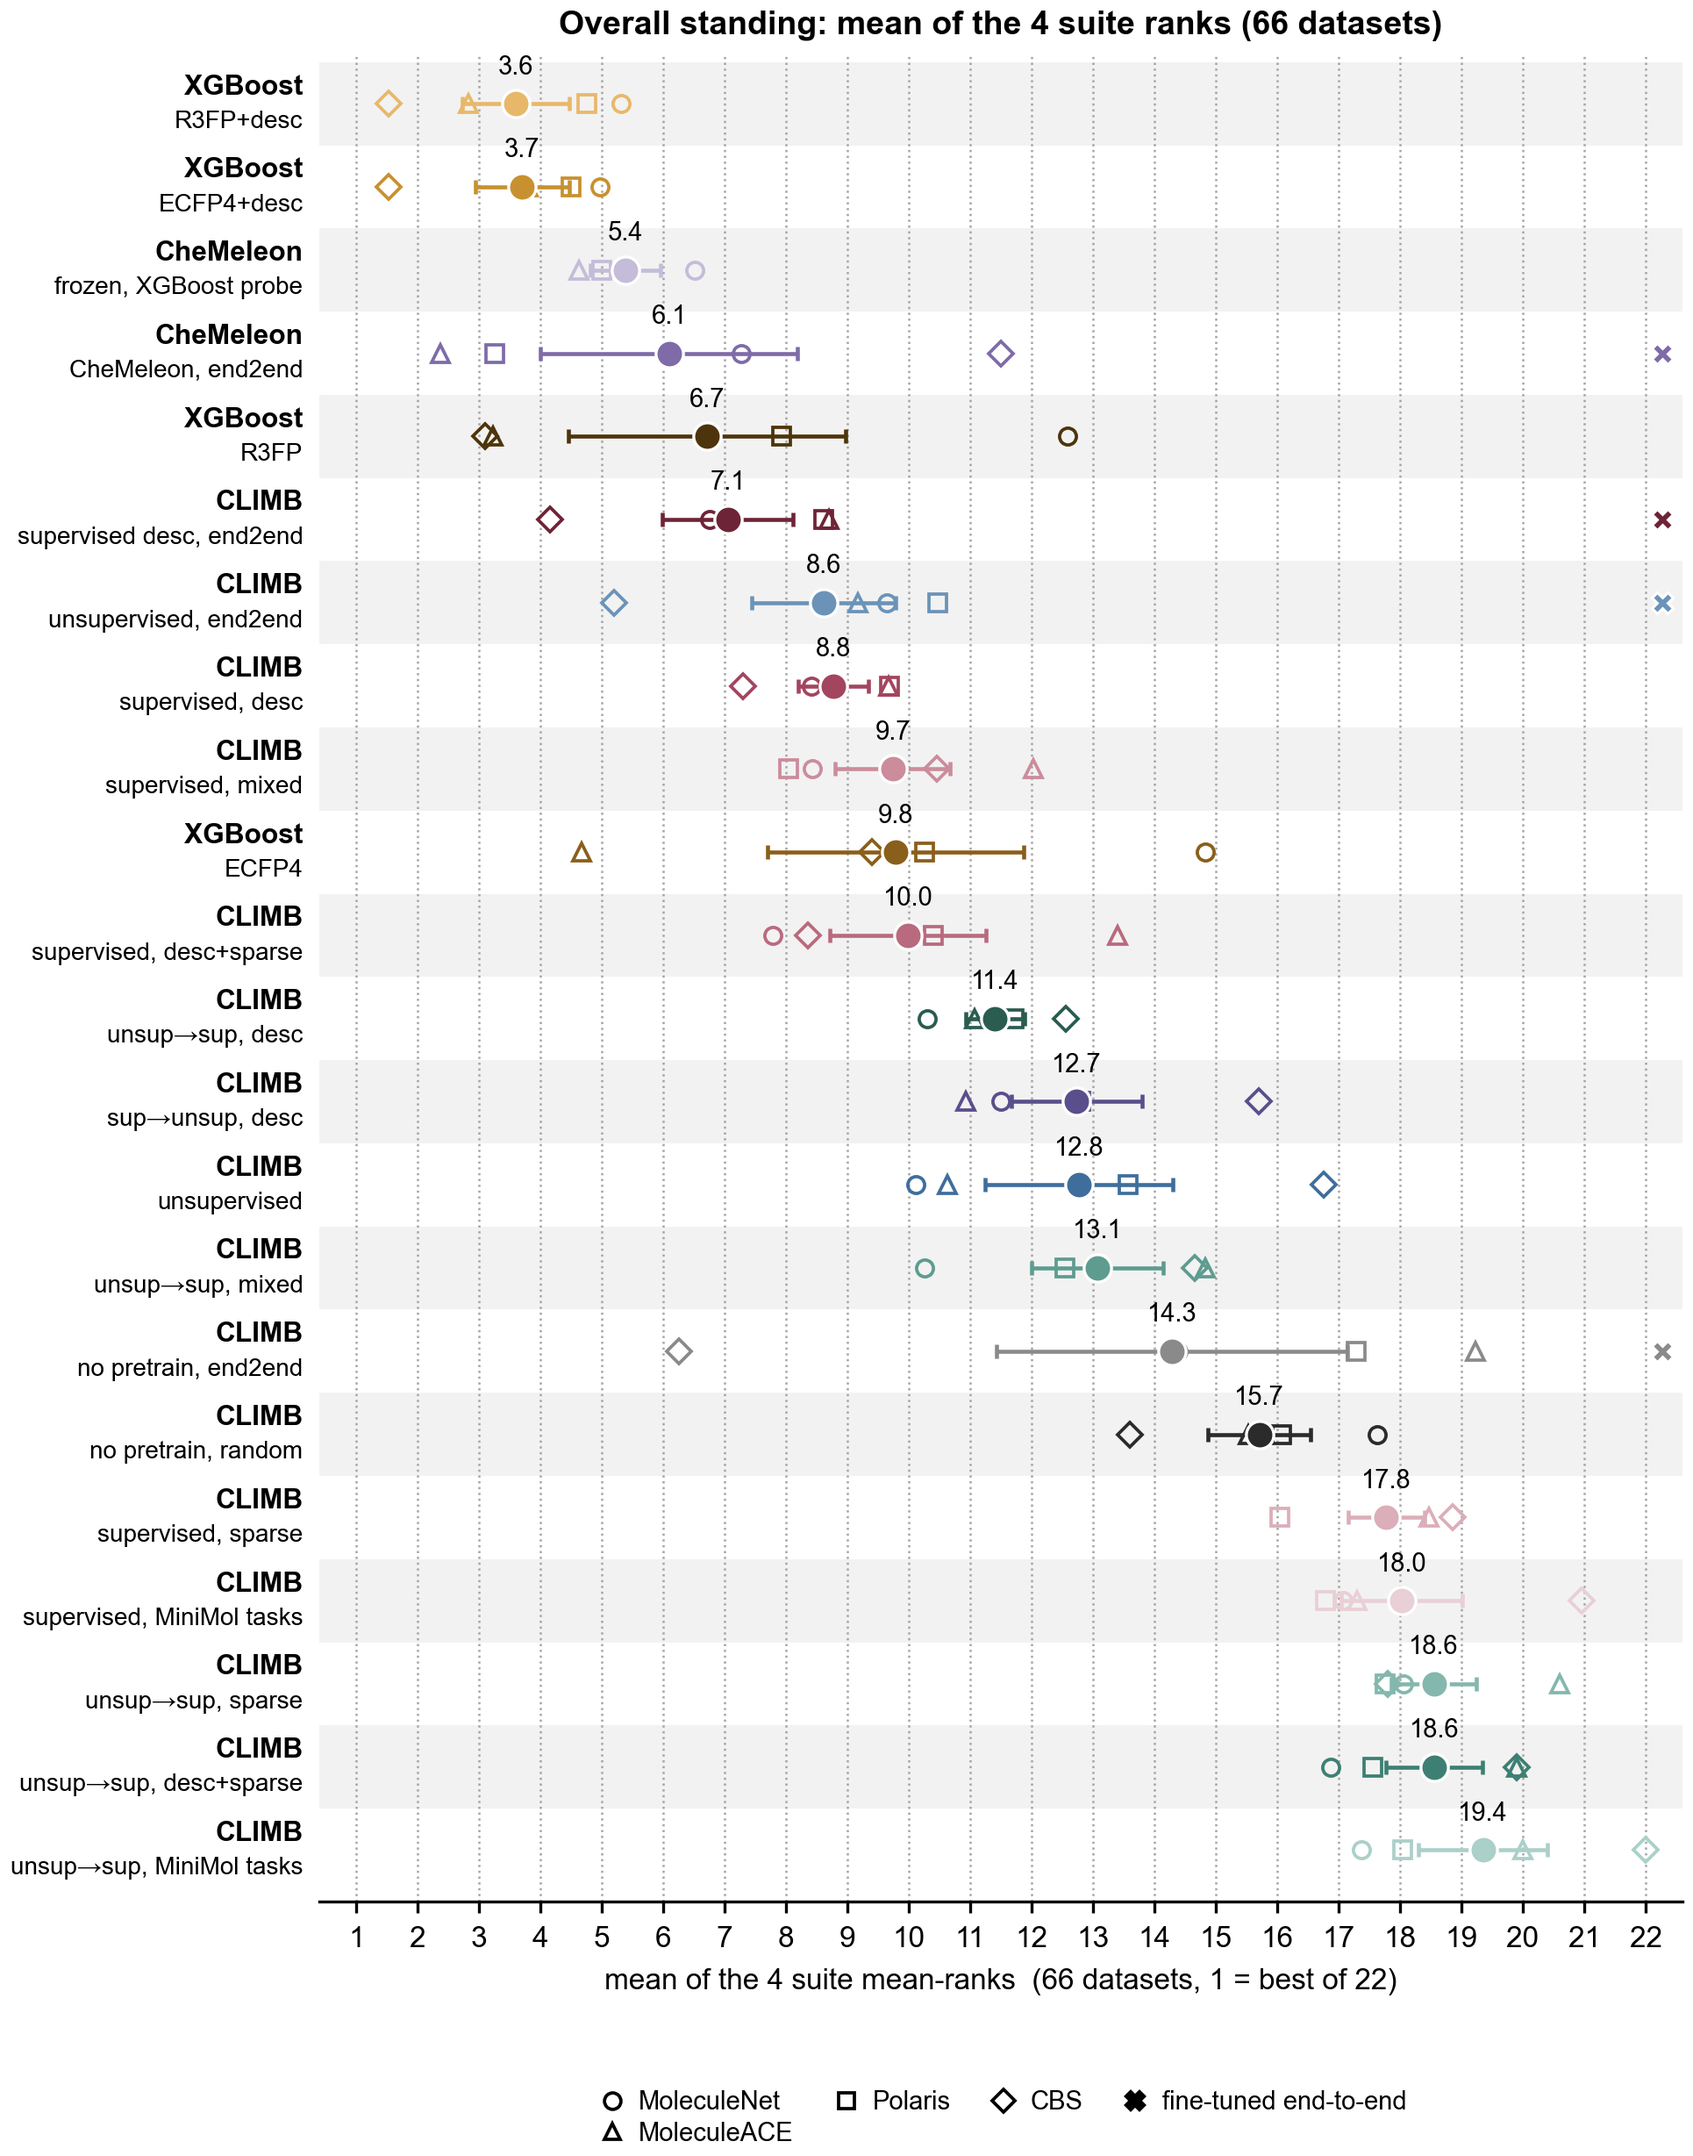
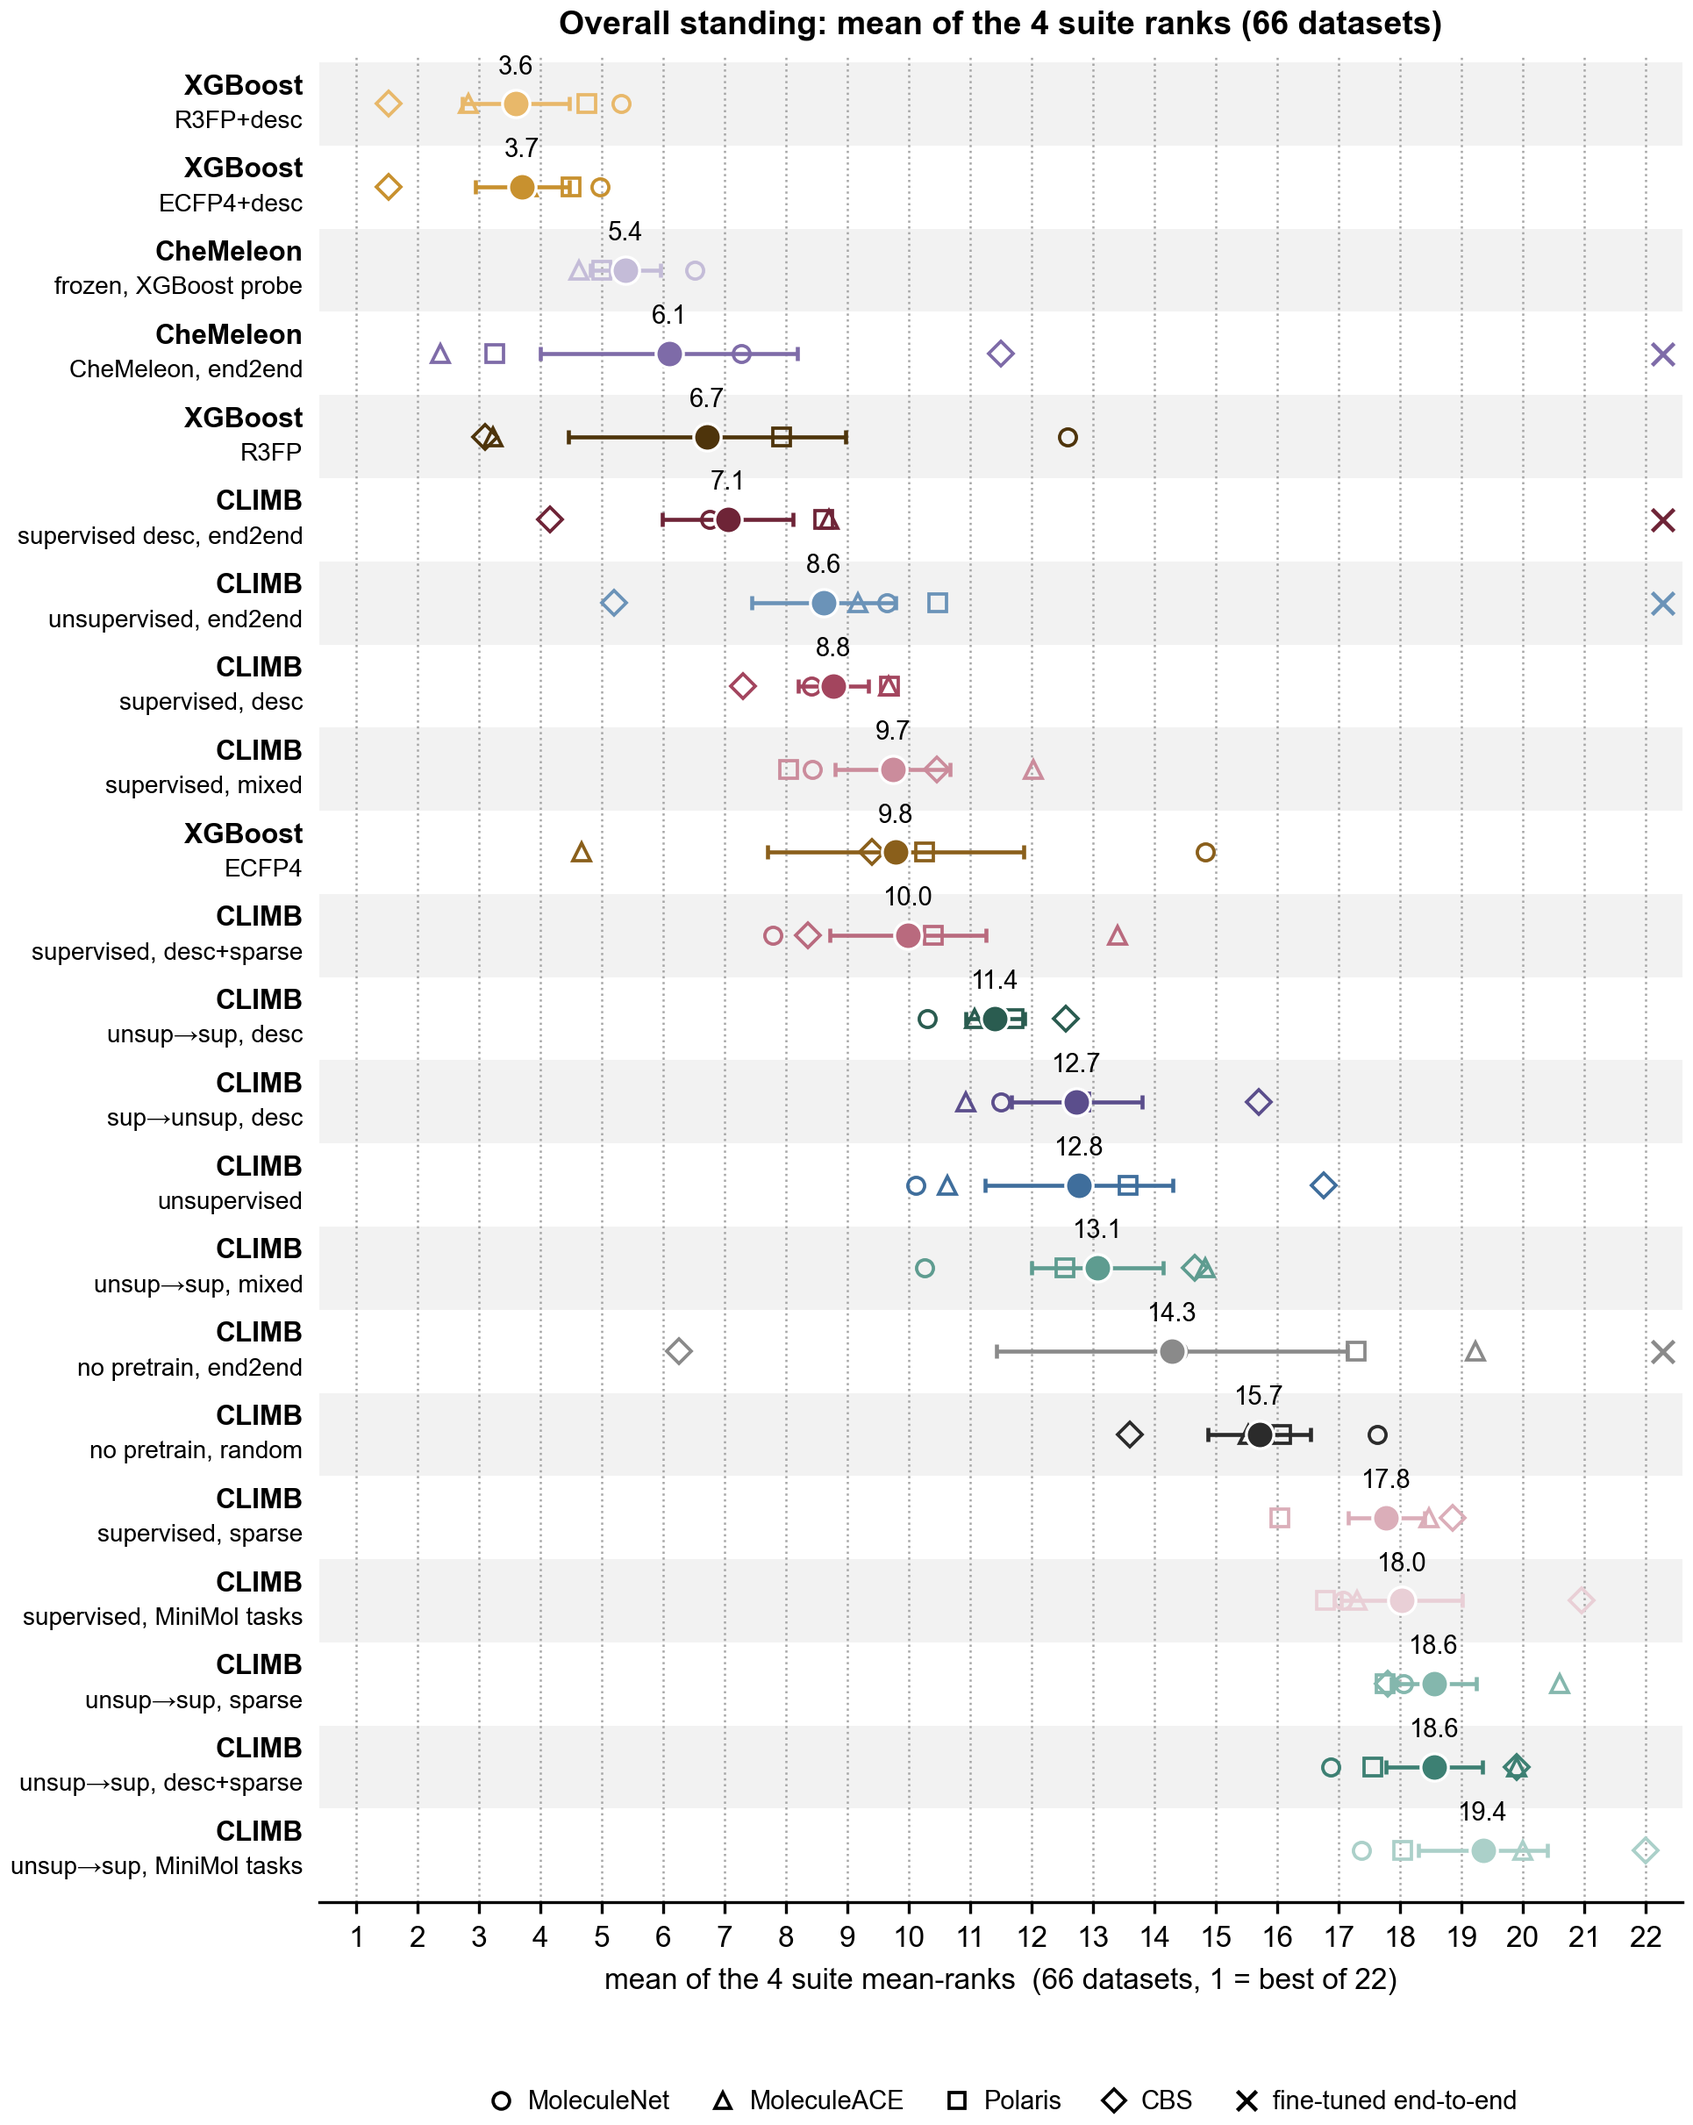
fig_A1: stroked 'x' instead of the filled 'X', legend on one row
The filled glyph read as a heavy blob beside four thin open suite markers; 'x' matches their
weight. ncol was len(SUITES)=4 against 5 legend entries, so it wrapped to a ragged second row
holding one item - it is now the handle count, so adding a key keeps the row rather than breaking
it.

diff --git a/figures/fig_A1.py b/figures/fig_A1.py
@@ -183,7 +183,11 @@ def suite_handles(with_dagger=False):
     # The cross's key. It is what makes the mark readable rather than mysterious, which is the
     # whole reason the earlier unkeyed version was removed. Filled ink, not per-arm colour: the
     # key names the PROTOCOL, and colouring it after any one arm would suggest otherwise.
-    h.append(Line2D([], [], ls="none", marker="X", color=INK, ms=5.0,
+    # "x" (stroked) not "X" (filled). The filled glyph reads as a heavy blob beside four thin
+    # open suite markers; the stroked one matches their weight (user 2026-08-20: "less fat, like
+    # thinner lines"). mew is set explicitly so the stroke width does not follow the rcParam that
+    # sizes the marker EDGES elsewhere in this figure.
+    h.append(Line2D([], [], ls="none", marker="x", color=INK, ms=5.2, mew=1.1,
                     label="fine-tuned end-to-end"))
     return h
 
@@ -266,13 +270,18 @@ def draw(ax, compact=False):
     # fine-tune the whole network while every other arm is a frozen probe.
     for yi, a in zip(y, order):
         if a in E2E_ARMS:
-            ax.plot(0.985, yi, transform=ytrans, marker="X", ms=(4.6 if compact else 5.8),
-                    color=ARMS[a]["color"], mec="white", mew=0.7, ls="none", zorder=5,
-                    clip_on=False)
+            # matches the key: stroked "x", no white halo (a halo on a stroked glyph eats the
+            # strokes rather than separating them from a background this mark never overlaps).
+            ax.plot(0.985, yi, transform=ytrans, marker="x", ms=(4.8 if compact else 6.0),
+                    color=ARMS[a]["color"], mew=1.1, ls="none", zorder=5, clip_on=False)
 
     if not compact:
-        ax.legend(handles=suite_handles(), loc="upper center",
-                  bbox_to_anchor=(0.5, -0.095), ncol=len(SUITES), fontsize=FS["legend"], handletextpad=0.4, labelspacing=0.25,
+        # ONE ROW (user 2026-08-20). ncol=len(SUITES) was 4 while the legend carries 5 entries --
+        # the four suites plus the end-to-end key -- so it wrapped to a ragged second row holding
+        # one item. ncol is the handle count, so adding a key keeps the row rather than breaking it.
+        _h = suite_handles()
+        ax.legend(handles=_h, loc="upper center",
+                  bbox_to_anchor=(0.5, -0.095), ncol=len(_h), fontsize=FS["legend"], handletextpad=0.4, labelspacing=0.25,
                   columnspacing=1.4, borderpad=0.0, frameon=False, labelcolor=INK)
 
 
